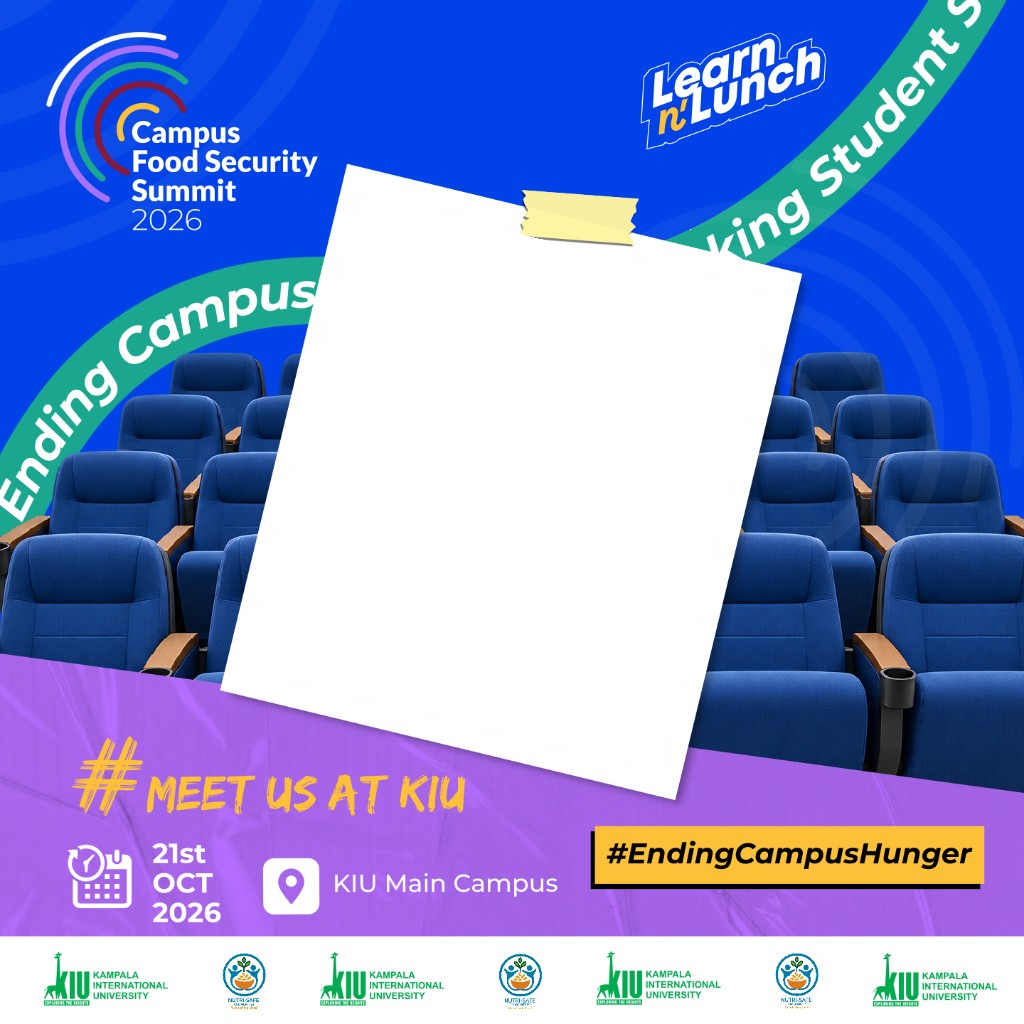
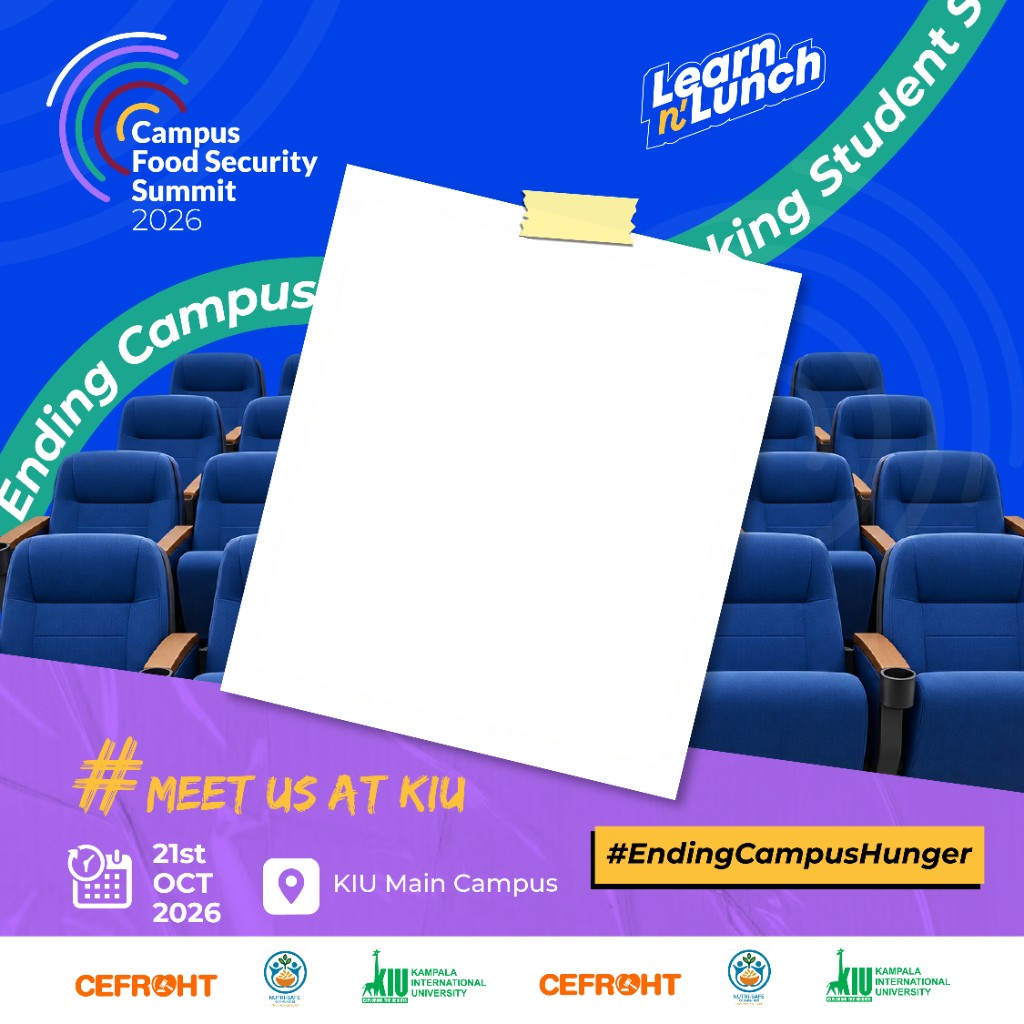
new poster

diff --git a/ill-be-there/index.html b/ill-be-there/index.html
@@ -68,7 +68,7 @@
     </nav>
 <main id="main-content">
 
-<section class="lnl-poster" id="summit-poster" data-overlay="../summit-poster/template-overlay.png?v=3">
+<section class="lnl-poster" id="summit-poster" data-overlay="../summit-poster/template-overlay.png?v=4">
   <div class="lnl-poster__screen">
     <div class="lnl-poster__intro">
       <p class="lnl-poster__eyebrow">Campus Food Security Summit 2026</p>
@@ -79,7 +79,7 @@
     <div class="lnl-poster__studio">
       <div class="lnl-poster__stage">
         <canvas class="lnl-poster__canvas" width="1024" height="1024" aria-label="Summit poster preview"></canvas>
-        <img class="lnl-poster__fallback" src="../summit-poster/template.jpg?v=2" alt="Campus Food Security Summit 2026 I'll Be There poster" width="1024" height="1024">
+        <img class="lnl-poster__fallback" src="../summit-poster/template.jpg?v=3" alt="Campus Food Security Summit 2026 I'll Be There poster" width="1024" height="1024">
         <p class="lnl-poster__empty" data-empty>Upload a photo to place it in the frame. Drag to move. Pinch to zoom.</p>
       </div>
     </div>

diff --git a/summit-poster/index.html b/summit-poster/index.html
@@ -68,7 +68,7 @@
     </nav>
 <main id="main-content">
 
-<section class="lnl-poster" id="summit-poster" data-overlay="../summit-poster/template-overlay.png?v=3">
+<section class="lnl-poster" id="summit-poster" data-overlay="../summit-poster/template-overlay.png?v=4">
   <div class="lnl-poster__screen">
     <div class="lnl-poster__intro">
       <p class="lnl-poster__eyebrow">Campus Food Security Summit 2026</p>
@@ -79,7 +79,7 @@
     <div class="lnl-poster__studio">
       <div class="lnl-poster__stage">
         <canvas class="lnl-poster__canvas" width="1024" height="1024" aria-label="Summit poster preview"></canvas>
-        <img class="lnl-poster__fallback" src="../summit-poster/template.jpg?v=2" alt="Campus Food Security Summit 2026 I'll Be There poster" width="1024" height="1024">
+        <img class="lnl-poster__fallback" src="../summit-poster/template.jpg?v=3" alt="Campus Food Security Summit 2026 I'll Be There poster" width="1024" height="1024">
         <p class="lnl-poster__empty" data-empty>Upload a photo to place it in the frame. Drag to move. Pinch to zoom.</p>
       </div>
     </div>

diff --git a/js/summit-poster.js b/js/summit-poster.js
@@ -6,15 +6,15 @@
   const HOLE_CYAN = "#00adef";
   const HOLE = {
     corners: [
-      [368, 204],
-      [765, 301],
+      [367, 204],
+      [765, 300],
       [654, 759],
-      [257, 660]
+      [256, 663]
     ],
-    center: [510.67, 481.5],
-    angle: Math.atan2(301 - 204, 765 - 368),
-    width: Math.hypot(765 - 368, 301 - 204),
-    height: Math.hypot(368 - 257, 204 - 660)
+    center: [510.67, 481.52],
+    angle: Math.atan2(300 - 204, 765 - 367),
+    width: Math.hypot(765 - 367, 300 - 204),
+    height: Math.hypot(367 - 256, 204 - 663)
   };
 
   const canvas = root.querySelector(".lnl-poster__canvas");

diff --git a/scripts/lib/pages/summit-poster.js b/scripts/lib/pages/summit-poster.js
@@ -8,8 +8,8 @@ const {
 
 function renderSummitPoster({ site, page }) {
   const depth = 1;
-  const overlaySrc = resolveAsset(depth, "summit-poster/template-overlay.png") + "?v=3";
-  const previewSrc = resolveAsset(depth, "summit-poster/template.jpg") + "?v=2";
+  const overlaySrc = resolveAsset(depth, "summit-poster/template-overlay.png") + "?v=4";
+  const previewSrc = resolveAsset(depth, "summit-poster/template.jpg") + "?v=3";
   const shareCaption = String(page.shareCaption || "").trim();
 
   const body = `
